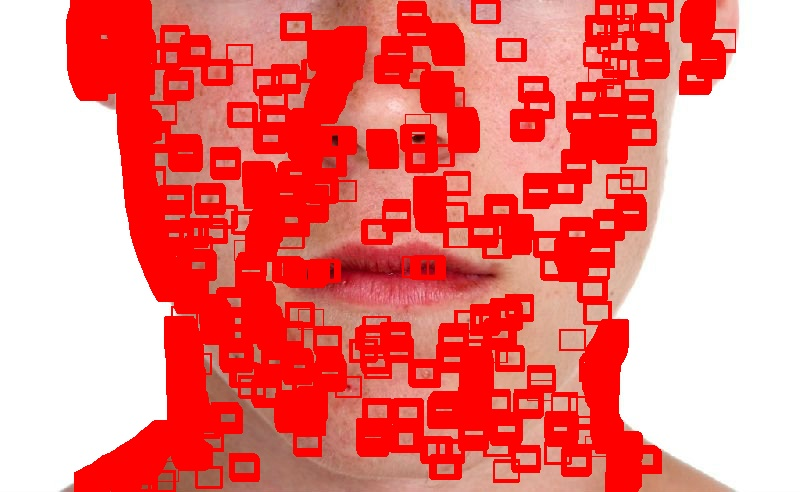
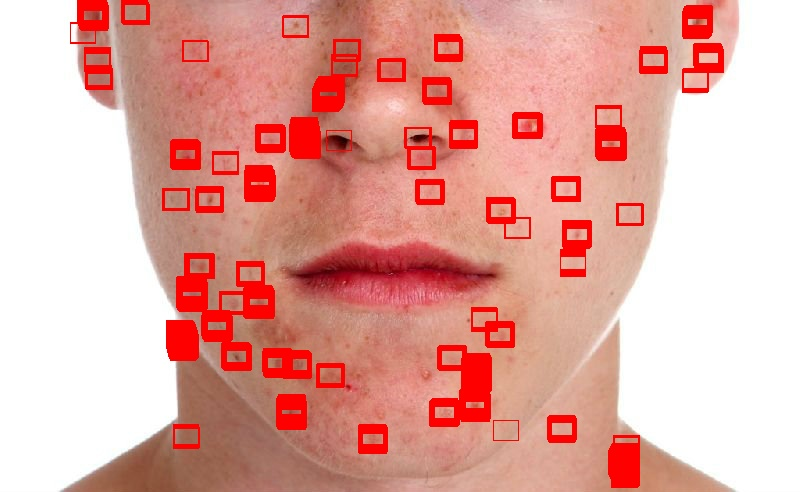
edit & add test.py

diff --git a/skinPic.py b/skinPic.py
@@ -1,52 +1,24 @@
-# import the necessary packages
 import imutils
 import numpy as np
 import argparse
 import cv2
-# construct the argument parse and parse the arguments
-ap = argparse.ArgumentParser()
-ap.add_argument("-v", "--video",
-                help="path to the (optional) video file")
-args = vars(ap.parse_args())
-# define the upper and lower boundaries of the HSV pixel
-# intensities to be considered 'skin'
-lower = np.array([0, 8, 15], dtype="uint8")
-upper = np.array([243, 249, 254], dtype="uint8")
-# if a video path was not supplied, grab the reference
-# to the gray
-if not args.get("video", False):
-    camera = cv2.VideoCapture(0)
-# otherwise, load the video
-else:
-    camera = cv2.VideoCapture(args["video"])
-# keep looping over the frames in the video
-while True:
-    # grab the current frame
-    (grabbed, frame) = camera.read()
-    # if we are viewing a video and we did not grab a
-    # frame, then we have reached the end of the video
-    if args.get("video") and not grabbed:
-        break
-    # resize the frame, convert it to the HSV color space,
-    # and determine the HSV pixel intensities that fall into
-    # the speicifed upper and lower boundaries
-    frame = imutils.resize(frame, width=400)
-    converted = cv2.cvtColor(frame, cv2.COLOR_BGR2HSV)
-    skinMask = cv2.inRange(converted, lower, upper)
-    # apply a series of erosions and dilations to the mask
-    # using an elliptical kernel
-    kernel = cv2.getStructuringElement(cv2.MORPH_ELLIPSE, (11, 11))
-    skinMask = cv2.erode(skinMask, kernel, iterations=2)
-    skinMask = cv2.dilate(skinMask, kernel, iterations=2)
-    # blur the mask to help remove noise, then apply the
-    # mask to the frame
-    skinMask = cv2.GaussianBlur(skinMask, (3, 3), 0)
-    skin = cv2.bitwise_and(frame, frame, mask=skinMask)
-    # show the skin in the image along with the mask
-    cv2.imshow("images", np.hstack([frame, skin]))
-    # if the 'q' key is pressed, stop the loop
-    if cv2.waitKey(1) & 0xFF == ord("q"):
-        break
-# cleanup the camera and close any open windows
-camera.release()
-cv2.destroyAllWindows()
+
+img = cv2.imread('image/acneFace.jpg')
+
+lower = np.array([0, 48, 80], dtype="uint8")
+upper = np.array([20, 255, 255], dtype="uint8")
+
+converted = cv2.cvtColor(img, cv2.COLOR_BGR2HSV)
+skinMask = cv2.inRange(converted, lower, upper)
+kernel = cv2.getStructuringElement(cv2.MORPH_ELLIPSE, (11, 11))
+skinMask = cv2.erode(skinMask, kernel, iterations=2)
+skinMask = cv2.dilate(skinMask, kernel, iterations=2)
+skinMask = cv2.GaussianBlur(skinMask, (3, 3), 0)
+skin = cv2.bitwise_and(img, img, mask=skinMask)
+
+cv2.imshow("images", np.hstack([img, skin]))
+
+# if the 'q' key is pressed, stop the loop
+if cv2.waitKey(0) & 0xFF == ord("q"):
+    cv2.destroyAllWindows()
+

diff --git a/corpAndMask.py b/corpAndMask.py
@@ -1,0 +1,32 @@
+import numpy as np
+import cv2
+
+# https://github.com/Itseez/opencv/blob/master/data/haarcascades/haarcascade_frontalface_default.xml
+face_cascade = cv2.CascadeClassifier('haarcascade_frontalface_default.xml')
+
+img = cv2.imread('image/w644.jpg')
+gray = cv2.cvtColor(img, cv2.COLOR_BGR2GRAY)
+faces = face_cascade.detectMultiScale(gray, 1.3, 5)
+
+# Drawing rectangle
+for (x, y, w, h) in faces:
+    crop_img = img[y:y+h, x:x+w]
+
+    lower = np.array([0, 48, 80], dtype="uint8")
+    upper = np.array([20, 255, 255], dtype="uint8")
+
+    converted = cv2.cvtColor(crop_img, cv2.COLOR_BGR2HSV)
+    skinMask = cv2.inRange(converted, lower, upper)
+    kernel = cv2.getStructuringElement(cv2.MORPH_ELLIPSE, (11, 11))
+    skinMask = cv2.erode(skinMask, kernel, iterations=2)
+    skinMask = cv2.dilate(skinMask, kernel, iterations=2)
+    skinMask = cv2.GaussianBlur(skinMask, (3, 3), 0)
+    skin = cv2.bitwise_and(crop_img, crop_img, mask=skinMask)
+
+    img[y:y+h, x:x+w] = skin
+
+cv2.imshow("images", img)
+
+k = cv2.waitKey(0) & 0xff
+if k == 27:
+    cv2.destroyAllWindows()

diff --git a/test.py b/test.py
@@ -1,20 +1,25 @@
 from cv2 import cv2 
 import numpy as np
 from matplotlib import pyplot as plt
+import scipy.ndimage as ndimage
 
 img_rgb = cv2.imread('image/kid.jpg')
 img_gray = cv2.cvtColor(img_rgb, cv2.COLOR_BGR2GRAY)
 template = cv2.imread('image/kid_detect.jpg', 0)
 w, h = template.shape[::-1]
 res = cv2.matchTemplate(img_gray, template, cv2.TM_CCOEFF_NORMED)
-threshold = 0.6
+threshold = 0.7
 loc = np.where( res >= threshold)
 
 print(loc[::-1])
 
 for pt in zip(*loc[::-1]):
-    cv2.rectangle(img_rgb, pt, (pt[0] + w, pt[1] + h), (0,0,255), 1)
+    #cv2.rectangle(img_rgb, pt, (pt[0] + w, pt[1] + h), (0,0,255), 1)
+    crop_img = img_rgb[pt[1]:pt[1]+h, pt[0]:pt[0]+w]
+    crop_img = ndimage.gaussian_filter(crop_img, sigma=(10, 10, 0), order=0)
+    img_rgb[pt[1]:pt[1]+h, pt[0]:pt[0]+w] = crop_img
+
 
 cv2.imshow('res', img_rgb)
-cv2.imwrite('impostermatch.jpeg', img_rgb)
+#cv2.imwrite('impostermatch.jpeg', img_rgb)
 cv2.waitKey(0)

diff --git a/cropImg.py b/cropImg.py
@@ -1,0 +1,21 @@
+import numpy as np
+import cv2
+
+# multiple cascades: https://github.com/Itseez/opencv/tree/master/data/haarcascades
+
+# https://github.com/Itseez/opencv/blob/master/data/haarcascades/haarcascade_frontalface_default.xml
+face_cascade = cv2.CascadeClassifier('haarcascade_frontalface_default.xml')
+
+img = cv2.imread('image/w644.jpg')
+gray = cv2.cvtColor(img, cv2.COLOR_BGR2GRAY)
+faces = face_cascade.detectMultiScale(gray, 1.3, 5)
+print(faces)
+
+# Drawing rectangle
+for (x, y, w, h) in faces:
+    crop_img = img[y:y+h, x:x+w]
+
+cv2.imshow('img', crop_img)
+k = cv2.waitKey(0) & 0xff
+if k == 27:
+    cv2.destroyAllWindows()

diff --git a/humanFace.py b/humanFace.py
@@ -10,7 +10,7 @@ eye_cascade = cv2.CascadeClassifier('haarcascade_eye.xml')
 # https://github.com/peterbraden/node-opencv/blob/master/data/haarcascade_mcs_mouth.xml
 mouth_cascade = cv2.CascadeClassifier('haarcascade_mcs_mouth.xml')
 
-img = cv2.imread('image/w644.jpg')
+img = cv2.imread('image/1.jpg')
 gray = cv2.cvtColor(img, cv2.COLOR_BGR2GRAY)
 faces = face_cascade.detectMultiScale(gray, 1.3, 5)
 print(faces)
